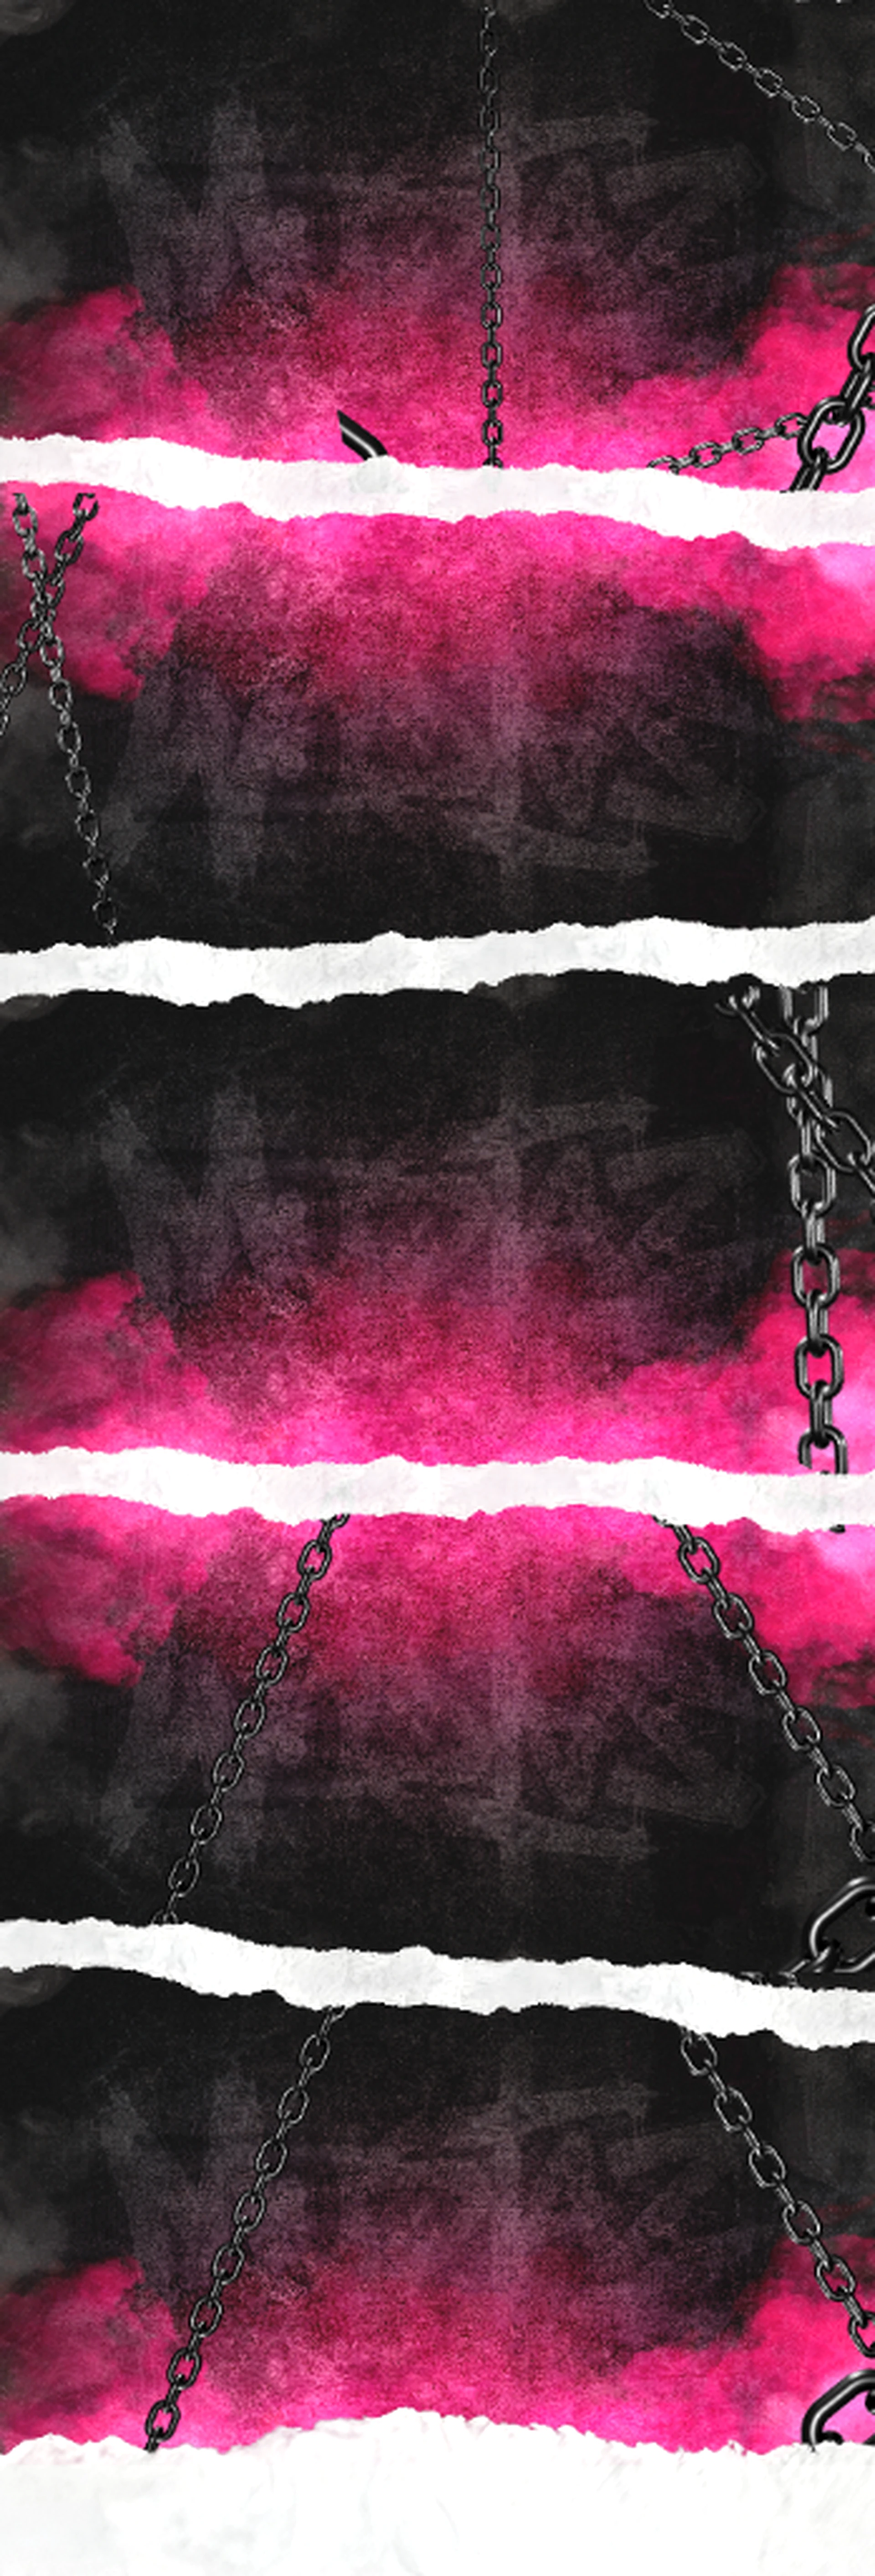
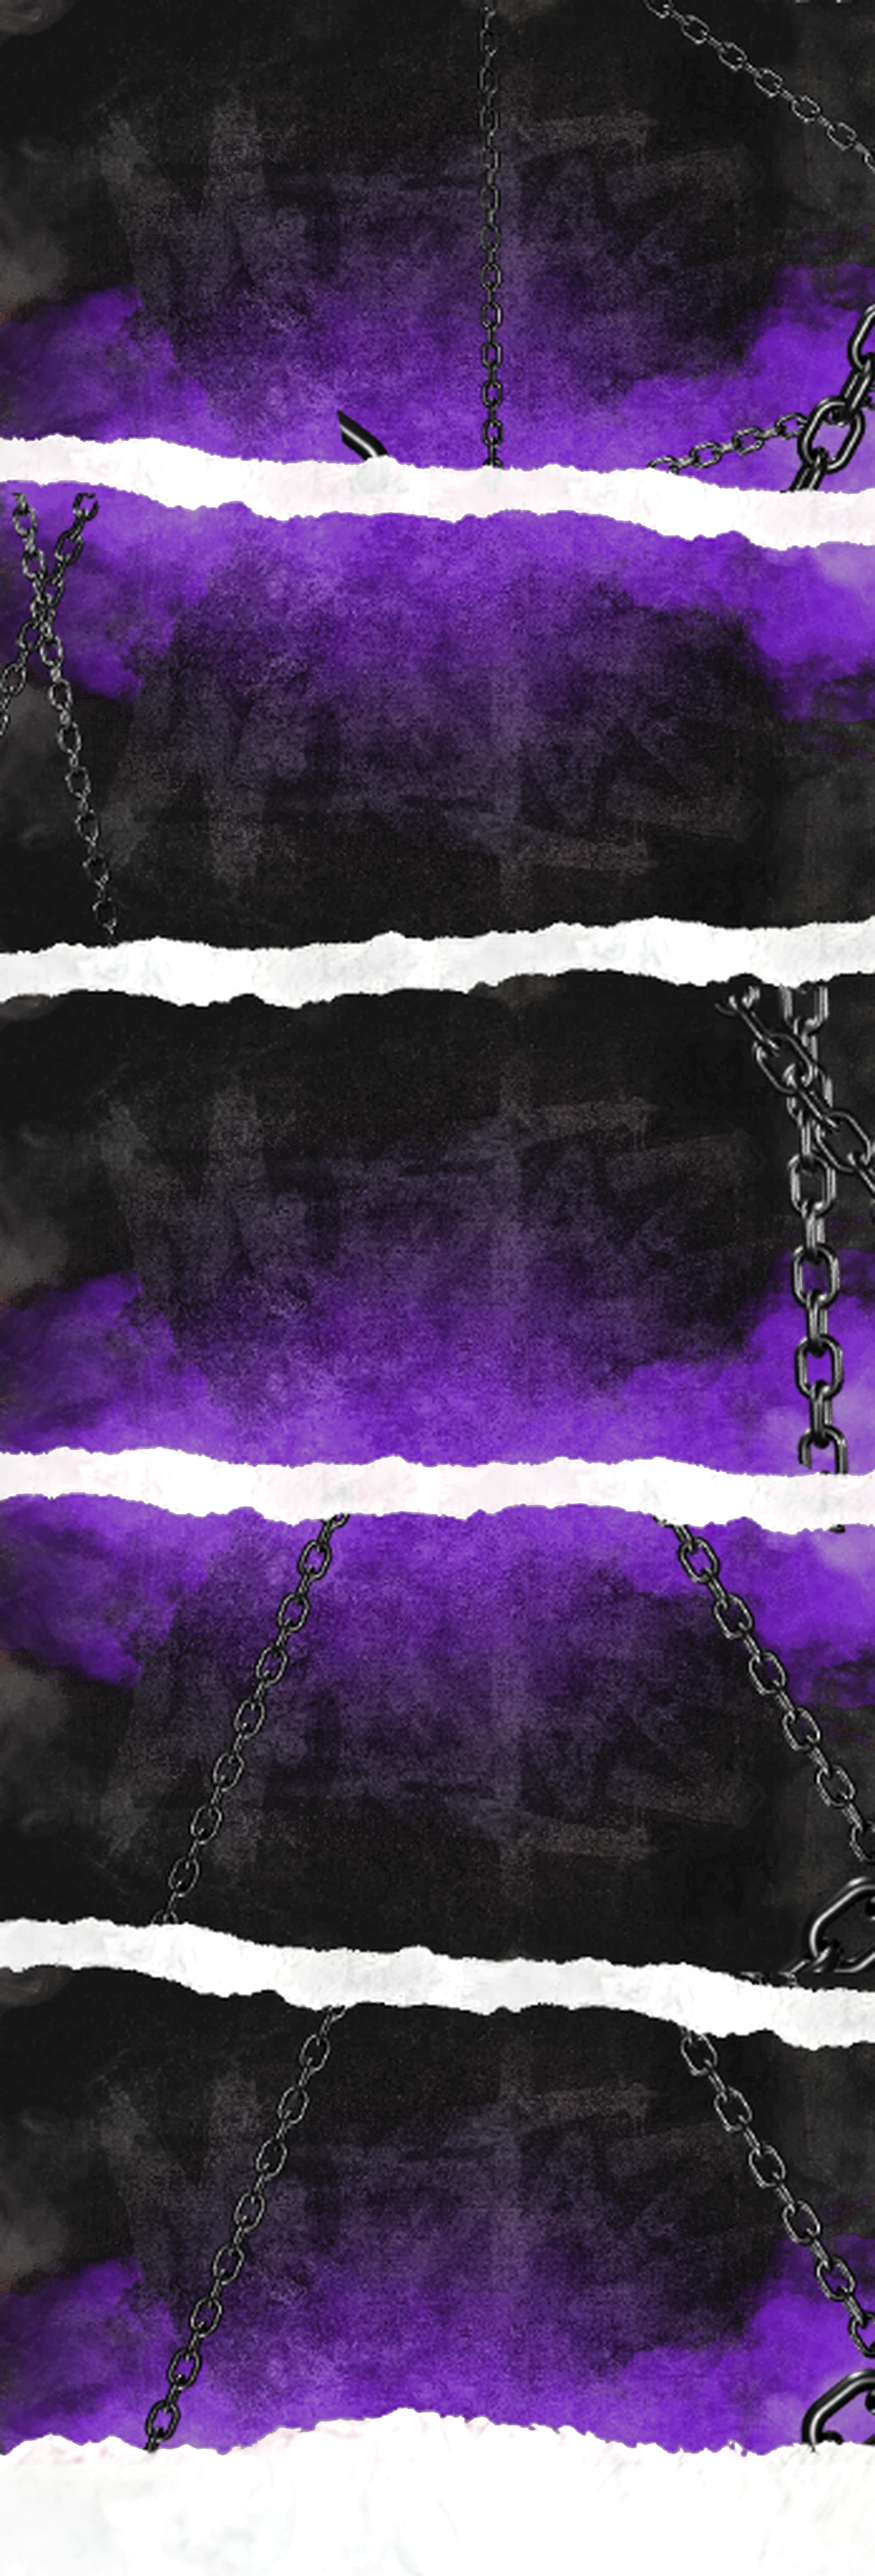
feat: transform all pages from neon pink to deep royal dark purple theme

diff --git a/js/components/products.js b/js/components/products.js
@@ -15,8 +15,8 @@ function ensureProductModal() {
   modal.className = 'modal-backdrop';
   modal.id = 'productDetailModal';
   modal.innerHTML = `
-    <div class="modal-box" style="max-width:860px;background:#0d0d0d;border:3px solid #FFFFFF;box-shadow:12px 12px 0px #FF008C;">
-      <div class="modal-header" style="background:#000;border-bottom:3px solid #FF008C;">
+    <div class="modal-box" style="max-width:860px;background:#0d0d0d;border:3px solid #FFFFFF;box-shadow:12px 12px 0px var(--accent-pink);">
+      <div class="modal-header" style="background:#000;border-bottom:3px solid var(--accent-pink);">
         <div style="display:flex;align-items:center;gap:12px;">
           <span class="zine-tag-pink" id="modalSku">SKU_001</span>
           <span style="font-family:var(--font-mono-sub);font-size:0.75rem;color:#888;letter-spacing:0.12em;" id="modalCategory">PARTS ARCHIVE</span>
@@ -69,7 +69,7 @@ export function openProductDetail(product) {
       <!-- RIGHT: SPECIFICATIONS & ADD TO CART -->
       <div style="display:flex;flex-direction:column;gap:14px;">
         <div>
-          <span style="font-family:var(--font-mono-sub);font-size:0.75rem;letter-spacing:0.2em;color:#FF008C;text-transform:uppercase;font-weight:700;">
+          <span style="font-family:var(--font-mono-sub);font-size:0.75rem;letter-spacing:0.2em;color:var(--accent-pink);text-transform:uppercase;font-weight:700;">
             ${product.category || 'TECHNICAL HARDWARE'}
           </span>
           <h2 style="font-family:var(--font-headline);font-size:clamp(2rem, 3.5vw, 2.8rem);color:#FFF;line-height:0.92;margin:6px 0 8px;">
@@ -81,7 +81,7 @@ export function openProductDetail(product) {
         </div>
 
         <div style="display:flex;align-items:baseline;gap:12px;padding:12px 0;border-top:1px dashed #333;border-bottom:1px dashed #333;">
-          <span style="font-family:var(--font-headline);font-size:2.2rem;color:#FF008C;font-weight:900;">
+          <span style="font-family:var(--font-headline);font-size:2.2rem;color:var(--accent-pink);font-weight:900;">
             ${formatRupiah(product.price)}
           </span>
           ${product.original_price ? `<span style="text-decoration:line-through;color:#666;font-size:1rem;font-family:var(--font-mono-sub);">${formatRupiah(product.original_price)}</span>` : ''}
@@ -89,7 +89,7 @@ export function openProductDetail(product) {
 
         <!-- SPECIFICATIONS TABLE -->
         <div style="background:#141414;border:1px solid #282828;padding:16px;">
-          <div style="font-family:var(--font-mono-sub);font-size:0.7rem;letter-spacing:0.18em;color:#FF008C;text-transform:uppercase;font-weight:800;margin-bottom:10px;">
+          <div style="font-family:var(--font-mono-sub);font-size:0.7rem;letter-spacing:0.18em;color:var(--accent-pink);text-transform:uppercase;font-weight:800;margin-bottom:10px;">
             TECHNICAL SPECIFICATIONS
           </div>
           ${isChopper && product.specs ? Object.entries(product.specs).map(([k, v]) => `
@@ -112,7 +112,7 @@ export function openProductDetail(product) {
             </div>
             <div style="display:flex;justify-content:space-between;font-size:0.82rem;padding:6px 0;">
               <span style="color:#888;font-family:var(--font-mono-sub);">STOCK STATUS</span>
-              <span style="color:${(product.stock || 10) <= 5 ? '#FF008C' : '#4ADE80'};font-weight:700;">
+              <span style="color:${(product.stock || 10) <= 5 ? 'var(--accent-pink)' : '#4ADE80'};font-weight:700;">
                 ${(product.stock || 10) <= 5 ? `CRITICAL - ${(product.stock || 5)} REMAINING` : `VERIFIED AVAILABLE (${product.stock || 10})`}
               </span>
             </div>
@@ -166,7 +166,7 @@ function renderParts(data) {
   if (data.length === 0) {
     grid.innerHTML = `
       <div style="grid-column:1/-1;text-align:center;padding:80px 20px;background:#101010;border:2px dashed #333;">
-        <div style="font-size:3rem;margin-bottom:16px;color:#FF008C;">⚡</div>
+        <div style="font-size:3rem;margin-bottom:16px;color:var(--accent-pink);">⚡</div>
         <p style="font-family:var(--font-headline);font-size:1.8rem;color:#FFF;text-transform:uppercase;margin:0 0 8px;">NO HARDWARE MATCHED</p>
         <p style="font-size:0.9rem;color:#888;">Try selecting ALL SCRAP or adjusting your search keyword.</p>
       </div>
@@ -214,10 +214,10 @@ function renderParts(data) {
 
             <!-- Price & Stock -->
             <div style="display:flex;justify-content:space-between;align-items:baseline;border-top:1px dashed #000;padding-top:10px;margin-top:auto;margin-bottom:14px;">
-              <span style="font-family:var(--font-headline);font-size:1.35rem;font-weight:900;color:#FF008C;">
+              <span style="font-family:var(--font-headline);font-size:1.35rem;font-weight:900;color:var(--accent-pink);">
                 ${formatRupiah(part.price)}
               </span>
-              <span style="font-family:var(--font-mono-sub);font-size:0.7rem;font-weight:700;color:${part.stock <= 5 ? '#FF008C' : '#333'};">
+              <span style="font-family:var(--font-mono-sub);font-size:0.7rem;font-weight:700;color:${part.stock <= 5 ? 'var(--accent-pink)' : '#333'};">
                 ${part.stock <= 5 ? `⚠ ${part.stock} REMAINING` : `IN STOCK (${part.stock})`}
               </span>
             </div>
@@ -334,7 +334,7 @@ function renderChoppers(data) {
   if (data.length === 0) {
     grid.innerHTML = `
       <div style="grid-column:1/-1;text-align:center;padding:80px 20px;background:#101010;border:2px dashed #333;">
-        <div style="font-size:3rem;margin-bottom:16px;color:#FF008C;">🏍</div>
+        <div style="font-size:3rem;margin-bottom:16px;color:var(--accent-pink);">🏍</div>
         <p style="font-family:var(--font-headline);font-size:1.8rem;color:#FFF;text-transform:uppercase;">NO MACHINES FOUND</p>
         <p style="font-size:0.9rem;color:#888;">Try selecting ALL MACHINES or clearing the search query.</p>
       </div>
@@ -344,7 +344,7 @@ function renderChoppers(data) {
 
   grid.innerHTML = data.map((chop, index) => {
     const isSold = chop.status === 'Sold';
-    const statusBg = isSold ? 'background:#333;color:#999;' : chop.status === 'In Shop' ? 'background:#FF008C;color:#000;' : 'background:#FFF;color:#000;';
+    const statusBg = isSold ? 'background:#333;color:#999;' : chop.status === 'In Shop' ? 'background:var(--accent-pink);color:#FFF;' : 'background:#FFF;color:#000;';
     const tiltStyle = index % 2 === 1 ? 'transform: translateY(12px);' : '';
 
     return `
@@ -382,7 +382,7 @@ function renderChoppers(data) {
           <div style="display:grid;grid-template-columns:1fr 1fr;gap:6px;margin-bottom:18px;">
             ${Object.entries(chop.specs).slice(0, 4).map(([k, v]) => `
               <div style="background:#000;color:#FFF;padding:6px 10px;border:1px solid #222;">
-                <span style="display:block;font-family:var(--font-mono-sub);font-size:0.62rem;color:#FF008C;letter-spacing:0.1em;text-transform:uppercase;">${k}</span>
+                <span style="display:block;font-family:var(--font-mono-sub);font-size:0.62rem;color:var(--accent-pink);letter-spacing:0.1em;text-transform:uppercase;">${k}</span>
                 <span style="font-family:var(--font-headline);font-size:0.88rem;color:#FFF;letter-spacing:0.04em;text-transform:uppercase;">${v}</span>
               </div>
             `).join('')}
@@ -392,7 +392,7 @@ function renderChoppers(data) {
           <div style="display:flex;align-items:center;justify-content:space-between;border-top:2px dashed #000;padding-top:14px;margin-top:auto;">
             <div>
               <span style="display:block;font-family:var(--font-mono-sub);font-size:0.65rem;color:#777;letter-spacing:0.1em;">PRICE PROTOCOL</span>
-              <span style="font-family:var(--font-headline);font-size:1.4rem;font-weight:900;color:#FF008C;">
+              <span style="font-family:var(--font-headline);font-size:1.4rem;font-weight:900;color:var(--accent-pink);">
                 ${formatRupiah(chop.price)}
               </span>
             </div>

diff --git a/js/components/cart.js b/js/components/cart.js
@@ -15,7 +15,7 @@ function getCartDrawerHTML() {
       <div class="cart-drawer" id="cartDrawer" role="dialog" aria-label="Shopping Cart">
         <div class="cart-header">
           <div style="display:flex;align-items:center;gap:10px;">
-            <div style="background:#FF008C;color:#000;font-family:var(--font-headline);font-weight:900;padding:2px 8px;font-size:0.85rem;border:1px solid #000;">GARAGE</div>
+            <div style="background:var(--accent-pink);color:#FFF;font-family:var(--font-headline);font-weight:900;padding:2px 8px;font-size:0.85rem;border:1px solid #000;">GARAGE</div>
             <h3>YOUR ARSENAL</h3>
           </div>
           <button class="cart-close-btn" id="cartCloseBtn" aria-label="Close cart">
@@ -86,7 +86,7 @@ function getCheckoutModalHTML() {
                 <option value="Direct WhatsApp Negotiation">Direct WhatsApp Negotiation</option>
               </select>
             </div>
-            <div id="checkoutError" style="display:none;color:#FF008C;font-family:var(--font-mono-sub);font-size:0.85rem;margin-bottom:16px;padding:12px;background:rgba(255,0,140,0.1);border:1px solid #FF008C;"></div>
+            <div id="checkoutError" style="display:none;color:var(--accent-pink);font-family:var(--font-mono-sub);font-size:0.85rem;margin-bottom:16px;padding:12px;background:rgba(109,40,217,0.1);border:1px solid var(--accent-pink);"></div>
             <button type="submit" id="checkoutSubmitBtn" class="btn-brutal-pink" style="width:100%;font-size:1.15rem;padding:16px;">
               CONFIRM ORDER VIA WHATSAPP →
             </button>
@@ -199,18 +199,18 @@ function renderCheckoutSummary() {
   const total = getCartTotal();
   el.innerHTML = `
     <div style="display:flex;justify-content:space-between;align-items:center;border-bottom:1px solid #282828;padding-bottom:8px;margin-bottom:12px;">
-      <span style="font-family:var(--font-headline);font-size:1rem;color:#FF008C;text-transform:uppercase;">CARGO INVENTORY</span>
+      <span style="font-family:var(--font-headline);font-size:1rem;color:var(--accent-pink);text-transform:uppercase;">CARGO INVENTORY</span>
       <span style="font-family:var(--font-mono-sub);font-size:0.75rem;color:#888;">${items.length} ITEM(S)</span>
     </div>
     ${items.map(i => `
       <div style="display:flex;justify-content:space-between;font-size:0.85rem;color:#F2F0E8;margin-bottom:8px;">
         <span>${i.name} × ${i.quantity}</span>
-        <span style="color:#FF008C;font-weight:700;">${formatRupiah(i.price * i.quantity)}</span>
+        <span style="color:var(--accent-pink);font-weight:700;">${formatRupiah(i.price * i.quantity)}</span>
       </div>
     `).join('')}
-    <div style="border-top:2px solid #FF008C;margin-top:14px;padding-top:12px;display:flex;justify-content:space-between;align-items:center;">
+    <div style="border-top:2px solid var(--accent-pink);margin-top:14px;padding-top:12px;display:flex;justify-content:space-between;align-items:center;">
       <span style="font-family:var(--font-headline);font-weight:900;font-size:1.1rem;text-transform:uppercase;">TOTAL MANIFEST</span>
-      <span style="font-family:var(--font-headline);font-weight:900;color:#FF008C;font-size:1.6rem;">${formatRupiah(total)}</span>
+      <span style="font-family:var(--font-headline);font-weight:900;color:var(--accent-pink);font-size:1.6rem;">${formatRupiah(total)}</span>
     </div>
   `;
 }

diff --git a/js/services/emailService.js b/js/services/emailService.js
@@ -26,7 +26,7 @@ export function buildOrderInvoiceHTML(order) {
         <td style="padding: 12px 14px; border-bottom: 1px dashed #333333; color: #FFFF00; text-align: center; font-family: monospace; font-size: 13px;">
           x${qty}
         </td>
-        <td style="padding: 12px 14px; border-bottom: 1px dashed #333333; color: #FF008C; text-align: right; font-weight: 900; font-size: 14px;">
+        <td style="padding: 12px 14px; border-bottom: 1px dashed #333333; color: #6D28D9; text-align: right; font-weight: 900; font-size: 14px;">
           ${formatRupiah(subtotal)}
         </td>
       </tr>
@@ -45,11 +45,11 @@ export function buildOrderInvoiceHTML(order) {
     <tr>
       <td align="center">
         <!-- Main Card -->
-        <table role="presentation" width="600" cellspacing="0" cellpadding="0" style="max-width: 600px; width: 100%; background-color: #111111; border: 3px solid #000000; box-shadow: 8px 8px 0px #FF008C;">
+        <table role="presentation" width="600" cellspacing="0" cellpadding="0" style="max-width: 600px; width: 100%; background-color: #111111; border: 3px solid #000000; box-shadow: 8px 8px 0px #6D28D9;">
           
           <!-- Header Bar -->
           <tr>
-            <td style="background-color: #FF008C; padding: 18px 24px; border-bottom: 2px solid #000000;">
+            <td style="background-color: #6D28D9; padding: 18px 24px; border-bottom: 2px solid #000000;">
               <table role="presentation" width="100%" cellspacing="0" cellpadding="0">
                 <tr>
                   <td>

diff --git a/css/variables.css b/css/variables.css
@@ -11,11 +11,11 @@
   --bg-surface-card: #141414;
   --bg-surface-bright: #222222;
 
-  /* Primary Accent: Hot Pink / Magenta */
-  --accent-pink: #FF008C;
-  --accent-pink-hover: #ff2a9d;
-  --accent-pink-dim: rgba(255, 0, 140, 0.15);
-  --accent-pink-glow: rgba(255, 0, 140, 0.35);
+  /* Primary Accent: Deep Royal Purple / Dark Violet (Soothing & Underground Brutalist) */
+  --accent-pink: #6D28D9;
+  --accent-pink-hover: #7C3AED;
+  --accent-pink-dim: rgba(109, 40, 217, 0.18);
+  --accent-pink-glow: rgba(109, 40, 217, 0.45);
 
   /* Secondary Accent: High-Voltage Acid / Flame Yellow (Matching Visor & Gloves) */
   --accent-yellow: #FFE600;
@@ -41,7 +41,7 @@
   --border-subtle: #202020;
   --border-light: rgba(255, 255, 255, 0.15);
   --border-white: #FFFFFF;
-  --border-pink: #FF008C;
+  --border-pink: #6D28D9;
   --border-yellow: #FFE600;
   --border-black: #000000;
 
@@ -54,9 +54,9 @@
   --shadow-hard-sm: 3px 3px 0px #000000;
   --shadow-hard-md: 6px 6px 0px #000000;
   --shadow-hard-lg: 8px 8px 0px #000000;
-  --shadow-pink-sm: 3px 3px 0px #FF008C;
-  --shadow-pink-md: 6px 6px 0px #FF008C;
-  --shadow-pink-lg: 8px 8px 0px #FF008C;
+  --shadow-pink-sm: 3px 3px 0px #5B21B6;
+  --shadow-pink-md: 6px 6px 0px #5B21B6;
+  --shadow-pink-lg: 8px 8px 0px #4C1D95;
   --shadow-yellow-sm: 3px 3px 0px #FFE600;
   --shadow-yellow-md: 6px 6px 0px #FFE600;
   --shadow-yellow-lg: 8px 8px 0px #FFE600;

diff --git a/css/components.css b/css/components.css
@@ -19,7 +19,7 @@
 
 /* ── INDUSTRIAL METAL CHAIN / DOTTED DIVIDER ── */
 .metal-chain-divider {
-  background-image: radial-gradient(circle, #FF008C 2px, transparent 2.5px);
+  background-image: radial-gradient(circle, var(--accent-pink) 2px, transparent 2.5px);
   background-size: 12px 12px;
   height: 2px;
   width: 100%;
@@ -43,7 +43,7 @@
   justify-content: center;
   gap: 10px;
   background: var(--accent-pink);
-  color: #000000;
+  color: #FFFFFF;
   font-family: var(--font-headline);
   font-size: 1.15rem;
   letter-spacing: 0.08em;
@@ -57,7 +57,7 @@
 }
 
 .btn-brutal-pink:hover {
-  background: #FFFFFF;
+  background: var(--accent-yellow);
   color: #000000;
   box-shadow: 4px 4px 0px var(--accent-pink);
   transform: translate(-2px, -2px);
@@ -156,7 +156,7 @@
 .zine-tag-pink {
   display: inline-block;
   background: var(--accent-pink);
-  color: #000000;
+  color: #FFFFFF;
   font-family: var(--font-mono-sub);
   font-weight: 800;
   font-size: 0.75rem;
@@ -789,7 +789,7 @@
 
 .flash-sale-badge {
   background: var(--accent-pink);
-  color: #000000;
+  color: #FFFFFF;
   font-family: var(--font-headline);
   font-size: 1.1rem;
   font-weight: 900;

diff --git a/css/layout.css b/css/layout.css
@@ -155,7 +155,7 @@
 .nav-cart-btn {
   background: var(--accent-pink);
   border: 2px solid #000000;
-  color: #000000;
+  color: #FFFFFF;
   height: 40px;
   padding: 0 14px;
   display: flex;
@@ -173,11 +173,16 @@
 
 .nav-cart-btn:hover {
   background: var(--accent-yellow);
+  color: #000000;
   box-shadow: 3px 3px 0px var(--accent-pink);
 }
 
 .nav-cart-btn .material-symbols-outlined {
   font-size: 20px;
+  color: #FFFFFF;
+}
+
+.nav-cart-btn:hover .material-symbols-outlined {
   color: #000000;
 }
 
@@ -201,11 +206,11 @@
   line-height: 1;
 }
 
-/* Pink Sign In Nav Button */
+/* Purple Sign In Nav Button */
 .nav-btn-pink {
   background: var(--accent-pink);
   border: 2px solid #000000;
-  color: #000000;
+  color: #FFFFFF;
   height: 40px;
   padding: 0 16px;
   display: inline-flex;
@@ -465,7 +470,7 @@
 
 .footer-white-divider {
   border: none;
-  border-top: 2px solid #A00078;
+  border-top: 2px solid var(--accent-pink);
   margin: 28px 0 16px;
   opacity: 1;
 }

diff --git a/admin.html b/admin.html
@@ -416,7 +416,7 @@
                           Custom Hand-Crafted Helmet Accessory
                         </p>
                         <div style="display:flex;justify-content:space-between;align-items:baseline;border-top:1px dashed #000;padding-top:10px;">
-                          <span style="font-family:var(--font-headline);font-size:1.35rem;font-weight:900;color:#FF008C;" id="prevPrice">
+                          <span style="font-family:var(--font-headline);font-size:1.35rem;font-weight:900;color:var(--accent-pink);" id="prevPrice">
                             IDR 350.000
                           </span>
                           <span style="font-family:var(--font-mono-sub);font-size:0.7rem;font-weight:700;color:#333;" id="prevStock">

diff --git a/shipping.html b/shipping.html
@@ -176,7 +176,7 @@
         <!-- Warning & Coordinates Diagram -->
         <div>
           <!-- Warning Notice -->
-          <div style="border:3px dashed var(--accent-pink);padding:32px;background:rgba(255,0,140,0.05);margin-bottom:24px;box-shadow:6px 6px 0px #000;">
+          <div style="border:3px dashed var(--accent-pink);padding:32px;background:rgba(109,40,217,0.08);margin-bottom:24px;box-shadow:6px 6px 0px #000;">
             <div style="display:flex;align-items:center;gap:12px;margin-bottom:12px;">
               <span class="material-symbols-outlined" style="color:var(--accent-pink);font-size:32px;">warning</span>
               <h3 style="font-family:var(--font-headline);font-size:1.6rem;color:#FFF;">SECURITY NOTICE</h3>

diff --git a/index.html b/index.html
@@ -177,7 +177,7 @@
         <div style="position:relative;">
           <!-- Masking Tape Accents -->
           <div class="tape-decor tape-top-left" style="background:rgba(255,230,0,0.7);"></div>
-          <div class="tape-decor tape-top-right" style="background:rgba(255,0,140,0.7);"></div>
+          <div class="tape-decor tape-top-right" style="background:rgba(109,40,217,0.7);"></div>
 
           <!-- Main Tilted Helmet Visor Frame -->
           <div class="hero-photo-frame" style="background:#FFFFFF;border:4px solid #000000;box-shadow:12px 12px 0px var(--accent-pink);padding:14px;max-width:460px;margin:0 auto;transform:rotate(2deg);transition:transform 0.3s ease;"
